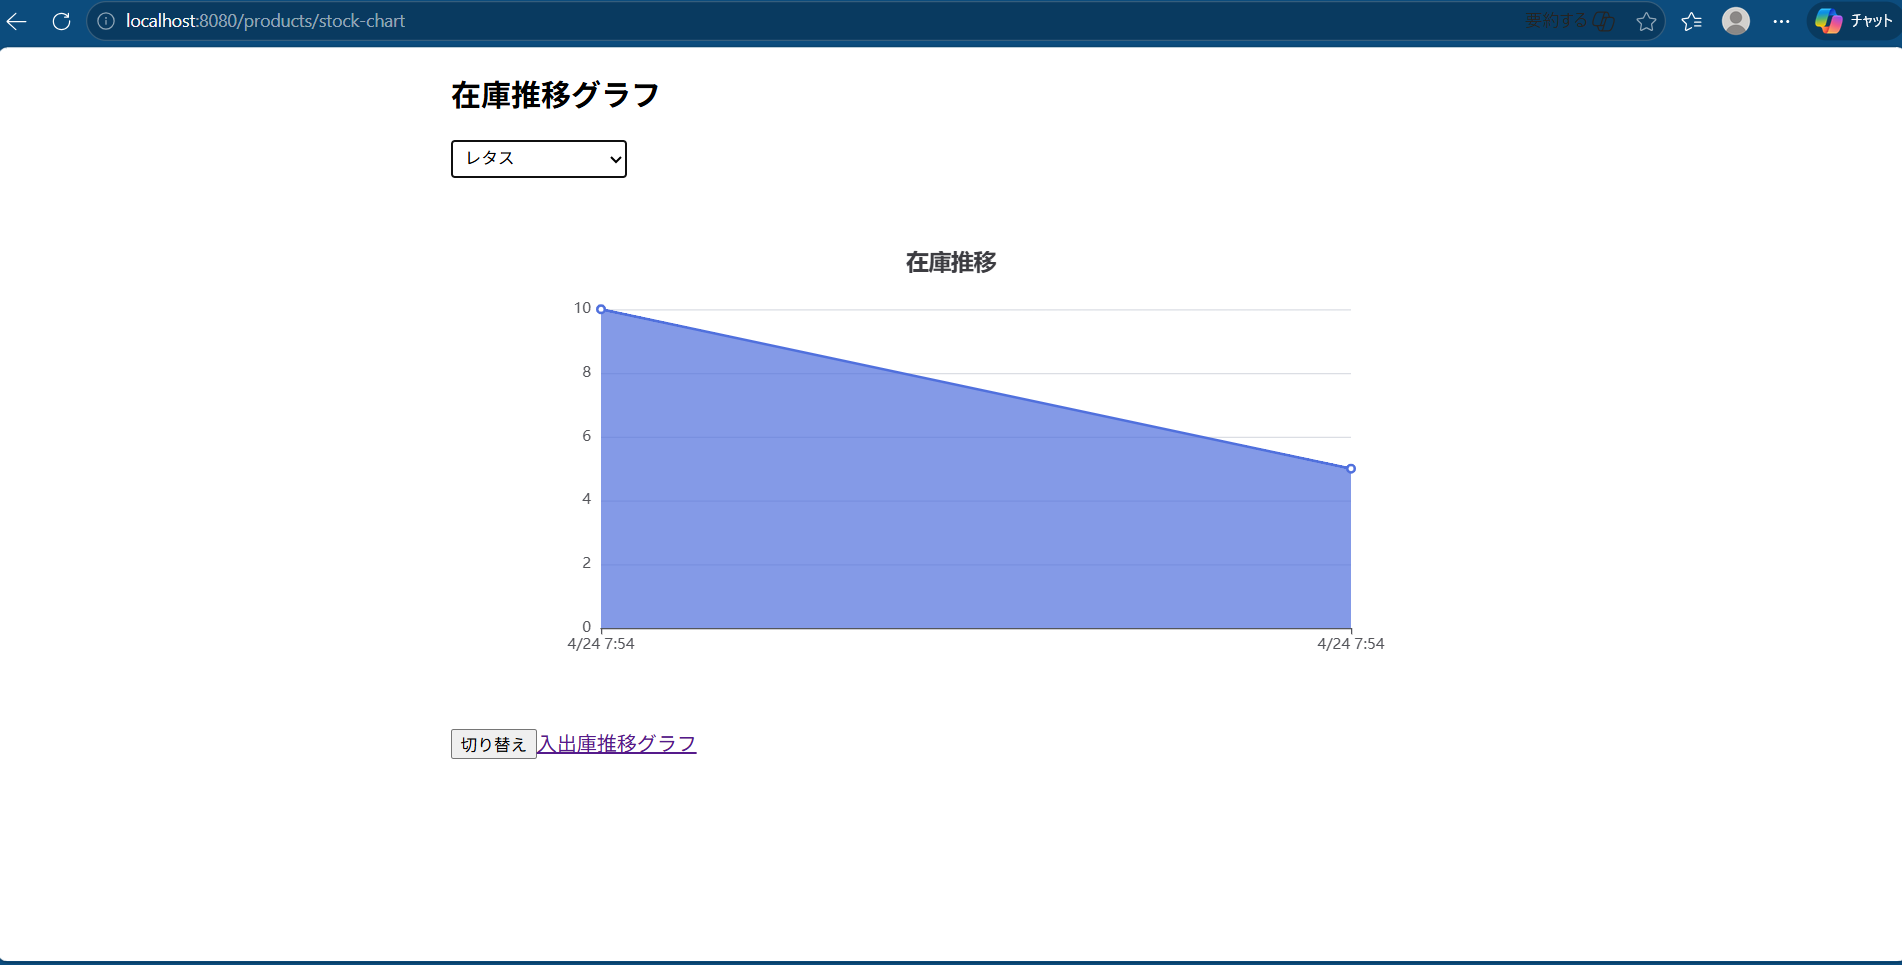
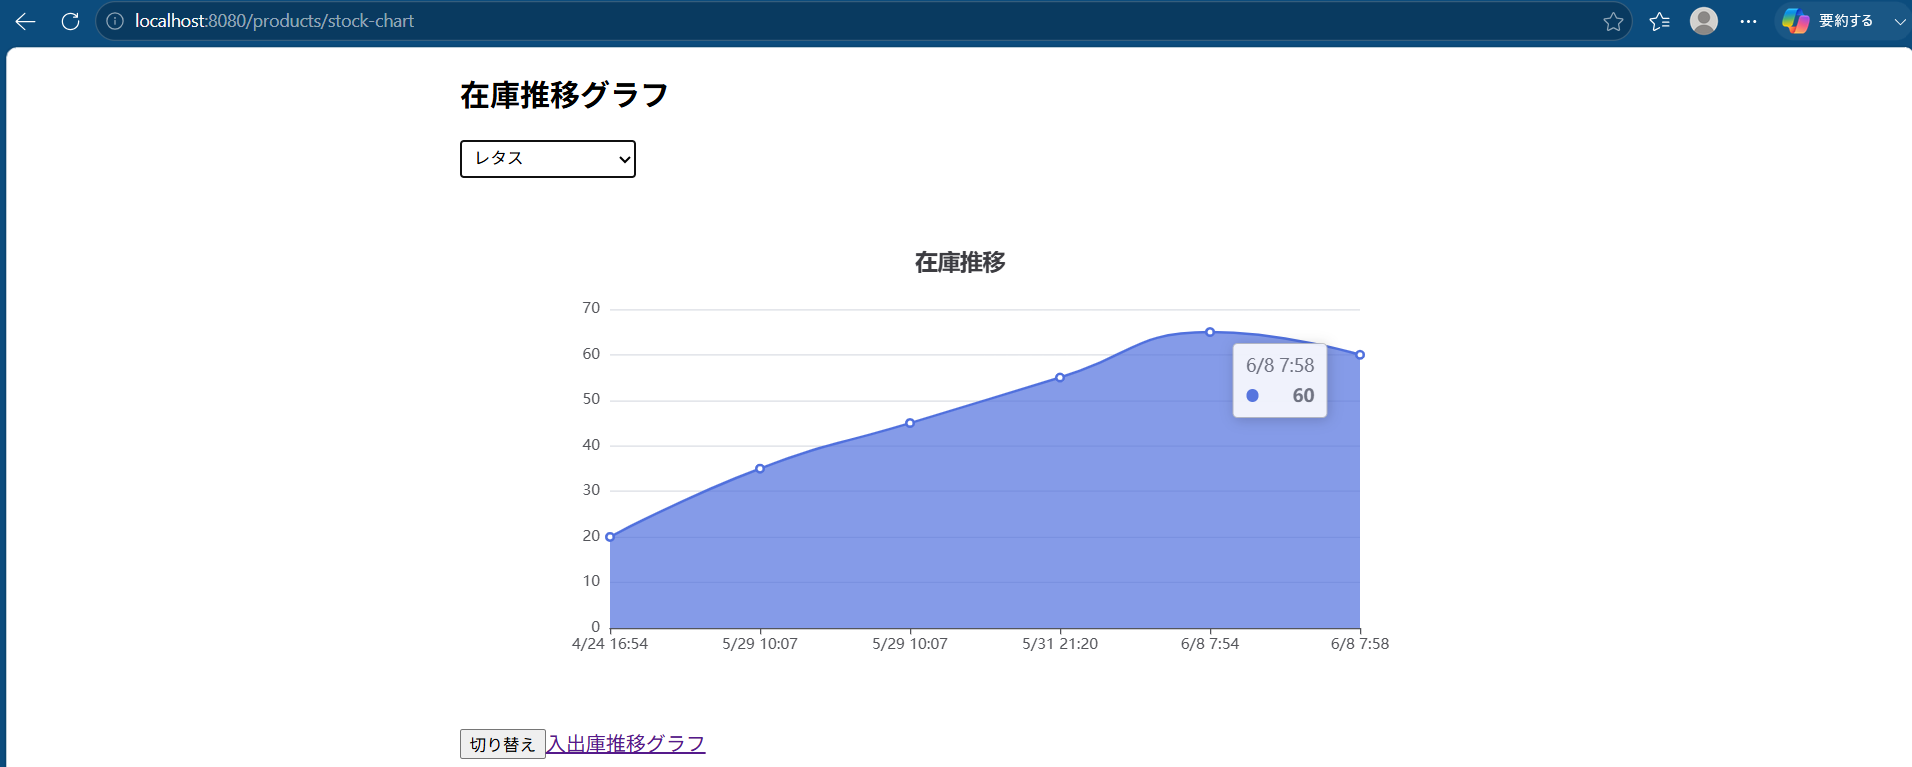
README修正・変更・画像追加

diff --git a/src/main/java/com/example1/demo3/config/SecurityConfig.java b/src/main/java/com/example1/demo3/config/SecurityConfig.java
@@ -1,8 +1,5 @@
 package com.example1.demo3.config;
 
-import java.security.Security;
-
-import org.springframework.boot.autoconfigure.neo4j.Neo4jProperties.Authentication;
 import org.springframework.context.annotation.Bean;
 import org.springframework.context.annotation.Configuration;
 import org.springframework.http.HttpMethod;

diff --git a/README.md b/README.md
@@ -51,41 +51,42 @@ docker compose up -d
 ## その他
 - Git/GitHub
     バージョン管理、ブランチ運用、Pull Requestベースの開発。
+- JUnit
+    service層の単体テスト
 
 # 機能一覧
 ## 商品管理
-- 商品の登録・編集・削除ができる
-    商品名、カテゴリ、メーカー、単位、価格などを管理。
-    価格変更時は自動で価格履歴テーブルに記録される。
+- 商品の登録・編集・削除ができる  
+- 商品名、カテゴリ、メーカー、単位、価格などを管理。
+- 価格変更時は自動で価格履歴テーブルに記録される。
 
 ## 在庫管理（入庫・出庫）
 - 入庫・出庫の登録ができる
-    入出庫ごとの履歴を保存し現在庫数を自動計算。
-    入庫時は数量・日付を入力、出庫時は在庫不足チェックを実施。
+- 入出庫ごとの履歴を保存し現在庫数を自動計算。
+- 入庫時は数量・日付を入力、出庫時は在庫不足チェックを実施。
 
 ## 在庫一覧
-- 全商品の現在庫数を一覧表示
-    メーカー別内訳の表示、検索・フィルタリングに対応。
-    「内訳」ボタンでメーカー別の在庫詳細をモーダル表示。
+- 全商品の現在庫数を一覧表示。
+- 「内訳」ボタンでメーカー別の在庫詳細をモーダル表示。
 
 ## 在庫推移グラフ
 - EChart.jsを使用した在庫推移の可視化
-    商品ごとの入出庫履歴をもとに、日付ごとの在庫を棒グラフで表示。
+- 商品ごとの入出庫履歴をもとに、日付ごとの在庫を棒グラフで表示。
 
 ## 価格履歴管理
 - 商品の価格変更履歴を自動記録
-    いつ・誰が・いくらに変更したのかを一覧で確認可能。
-    価格変更画面から新しい価格を登録できる。
+- いつ・いくらに変更したのかを一覧で確認可能。
+- 価格変更画面から新しい価格を登録できる。
 
 ## メーカー管理
 - メーカー（取引先）の登録・編集・削除
-    商品登録時にメーカーを紐付け可能。
-    在庫内訳表示にも利用。
+- 商品登録時にメーカーを紐付け可能。
+- 在庫内訳表示にも利用。
 
 ## ユーザー管理 / ログイン
 - Spring Securityによるログイン認証
-    ADMIN / USERのロールに応じて操作を制限。
-    ADMINのみ商品登録・価格変更などが可能。
+- ADMIN / USERのロールに応じて操作を制限。
+- ADMINのみ商品登録・価格変更などが可能。
 
 ## REST API
 - 商品・在庫・価格履歴・メーカー情報をAPIとして提供
@@ -93,7 +94,7 @@ docker compose up -d
 
 ## Dockerによる環境構築
 - Docker compose up -dでバックエンド・フロントエンド・DBを一括起動。
-    ローカル環境でも本番に近い構成を再現。
+- ローカル環境でも本番に近い構成を再現。
 
 # 画面一覧
 
@@ -131,11 +132,30 @@ docker compose up -d
 
 ---
 
+## メーカー登録画面（マスタ）
+- メーカー（取引先）の登録を行う画面です。
+商品登録や在庫内訳表示で使用されるためアプリ全体の基盤となるデータを管理します。  
+- 商品登録画面・入庫画面・出庫画面と連動しています。  
+
+![メーカー登録画面](./images/maker-list.png)
+
+---
+
+## 商品登録画面（マスタ）
+- 商品名・カテゴリ・メーカー・単位などアプリ全体の基盤となる商品情報を管理する画面です。
+- 入庫・出庫・在庫内訳・価格履歴など他機能の中心となるデータを管理。
+
+![商品登録画面](./images/product-master-list.png)
+
+---
+
 ## 在庫推移グラフ
 EChart.jsを使用して、商品ごとの在庫推移を可視化します。
 入出庫履歴をもとに日付ごとの在庫量をグラフ表示します。
 
 ![在庫推移グラフ](./images/stock-graph.png)
+
+![入出庫別グラフ](./images/stock-in-out-graph.png)
 
 ---
 
@@ -152,6 +172,14 @@ EChart.jsを使用して、商品ごとの在庫推移を可視化します。
 ADMIN / USER のロールに応じて操作権限が変わります。
 
 ![ログイン画面](./images/login.png)
+
+---
+
+## ユーザー登録画面
+- ユーザー名・パスワード・権限（ADMIN/USER）を登録する画面です・
+- ユーザー名の重複チェック・パスワードのハッシュ化・権限の付与を行い、入力チェック・パスワード保護・ロール設計を意識して実装しました。
+
+![ユーザー登録画面](./images/user-new.png)
 
 ---
 
@@ -360,10 +388,14 @@ graph LR
 
 # 今後の改善点
 - 在庫推移グラフの拡張機能（期間フィルタ・月次集計）
+  
   現状全履歴を表示しているため「期間指定」「年次・月次・週次の集計」「メーカー別比較」などより実務的な分析ができる機能を追加したい。
 - 価格変更履歴の編集・削除機能
+  
   誤登録時の修正や削除ができるようにし、価格管理の運用性を向上させたい。
 - ユーザー管理機能の拡張（パスワード変更・ユーザー編集）
+  
   現状新規登録のみのためパスワード変更・ユーザー情報編集などを追加したい。
-- テストコード（JUnit）のよるロジックのテスト
-  在庫計算・価格変更履歴処理などビジネスロジックが増えてきたため、単体テストを追加して保守性を高めたい。
+- テストコード（JUnit）によるControllerのテスト追加
+ 
+  MockMvcを用いたControllerの単体テストを追加しREST APIの信頼性を高めたい
